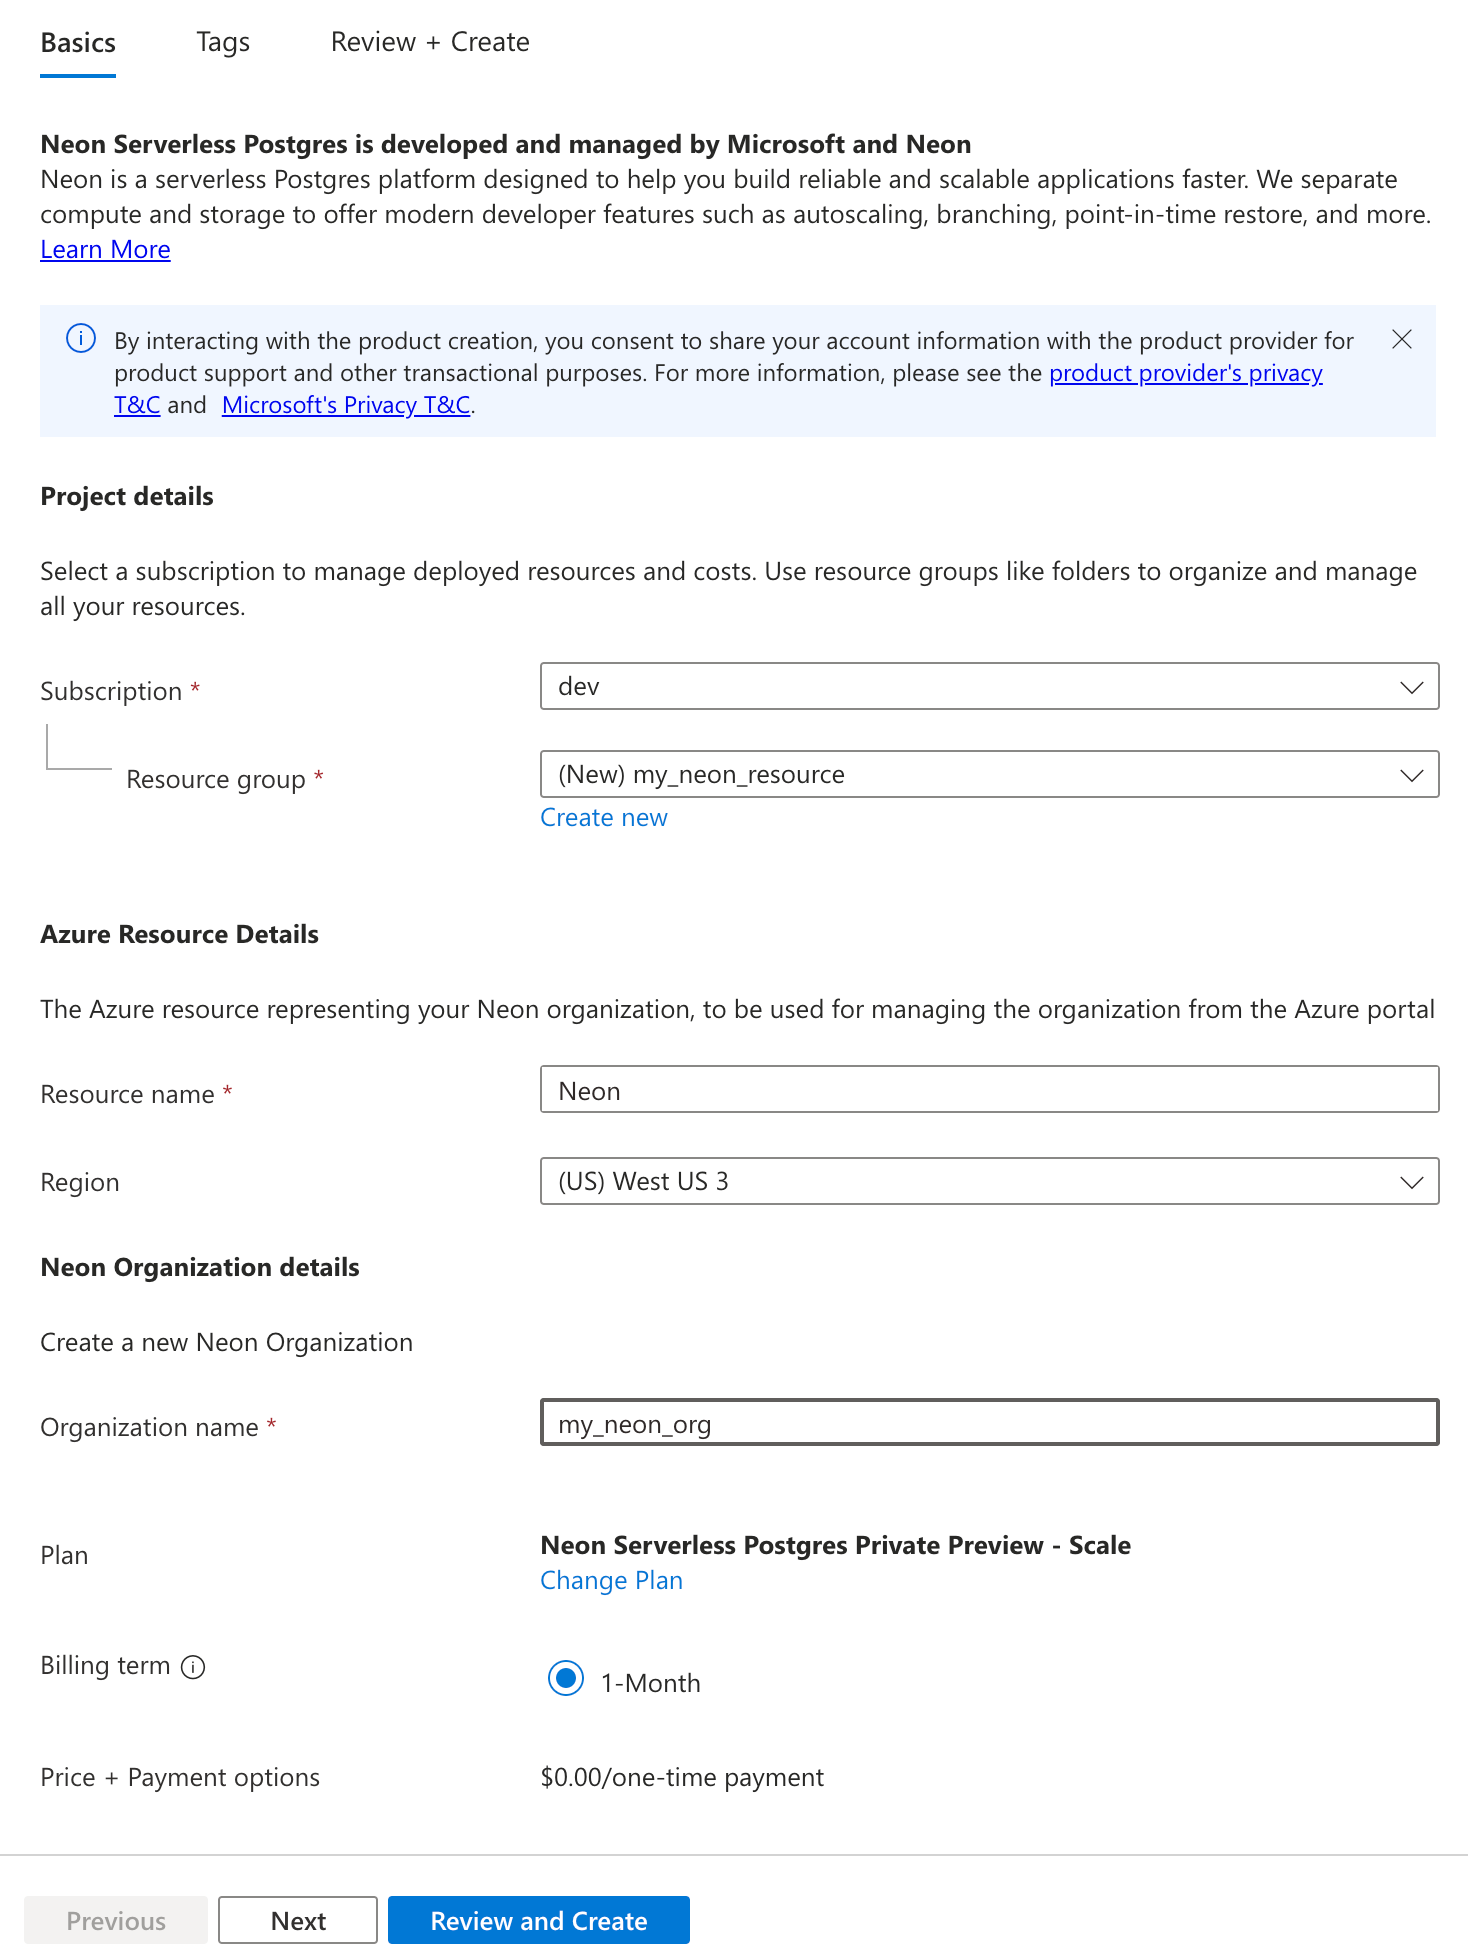
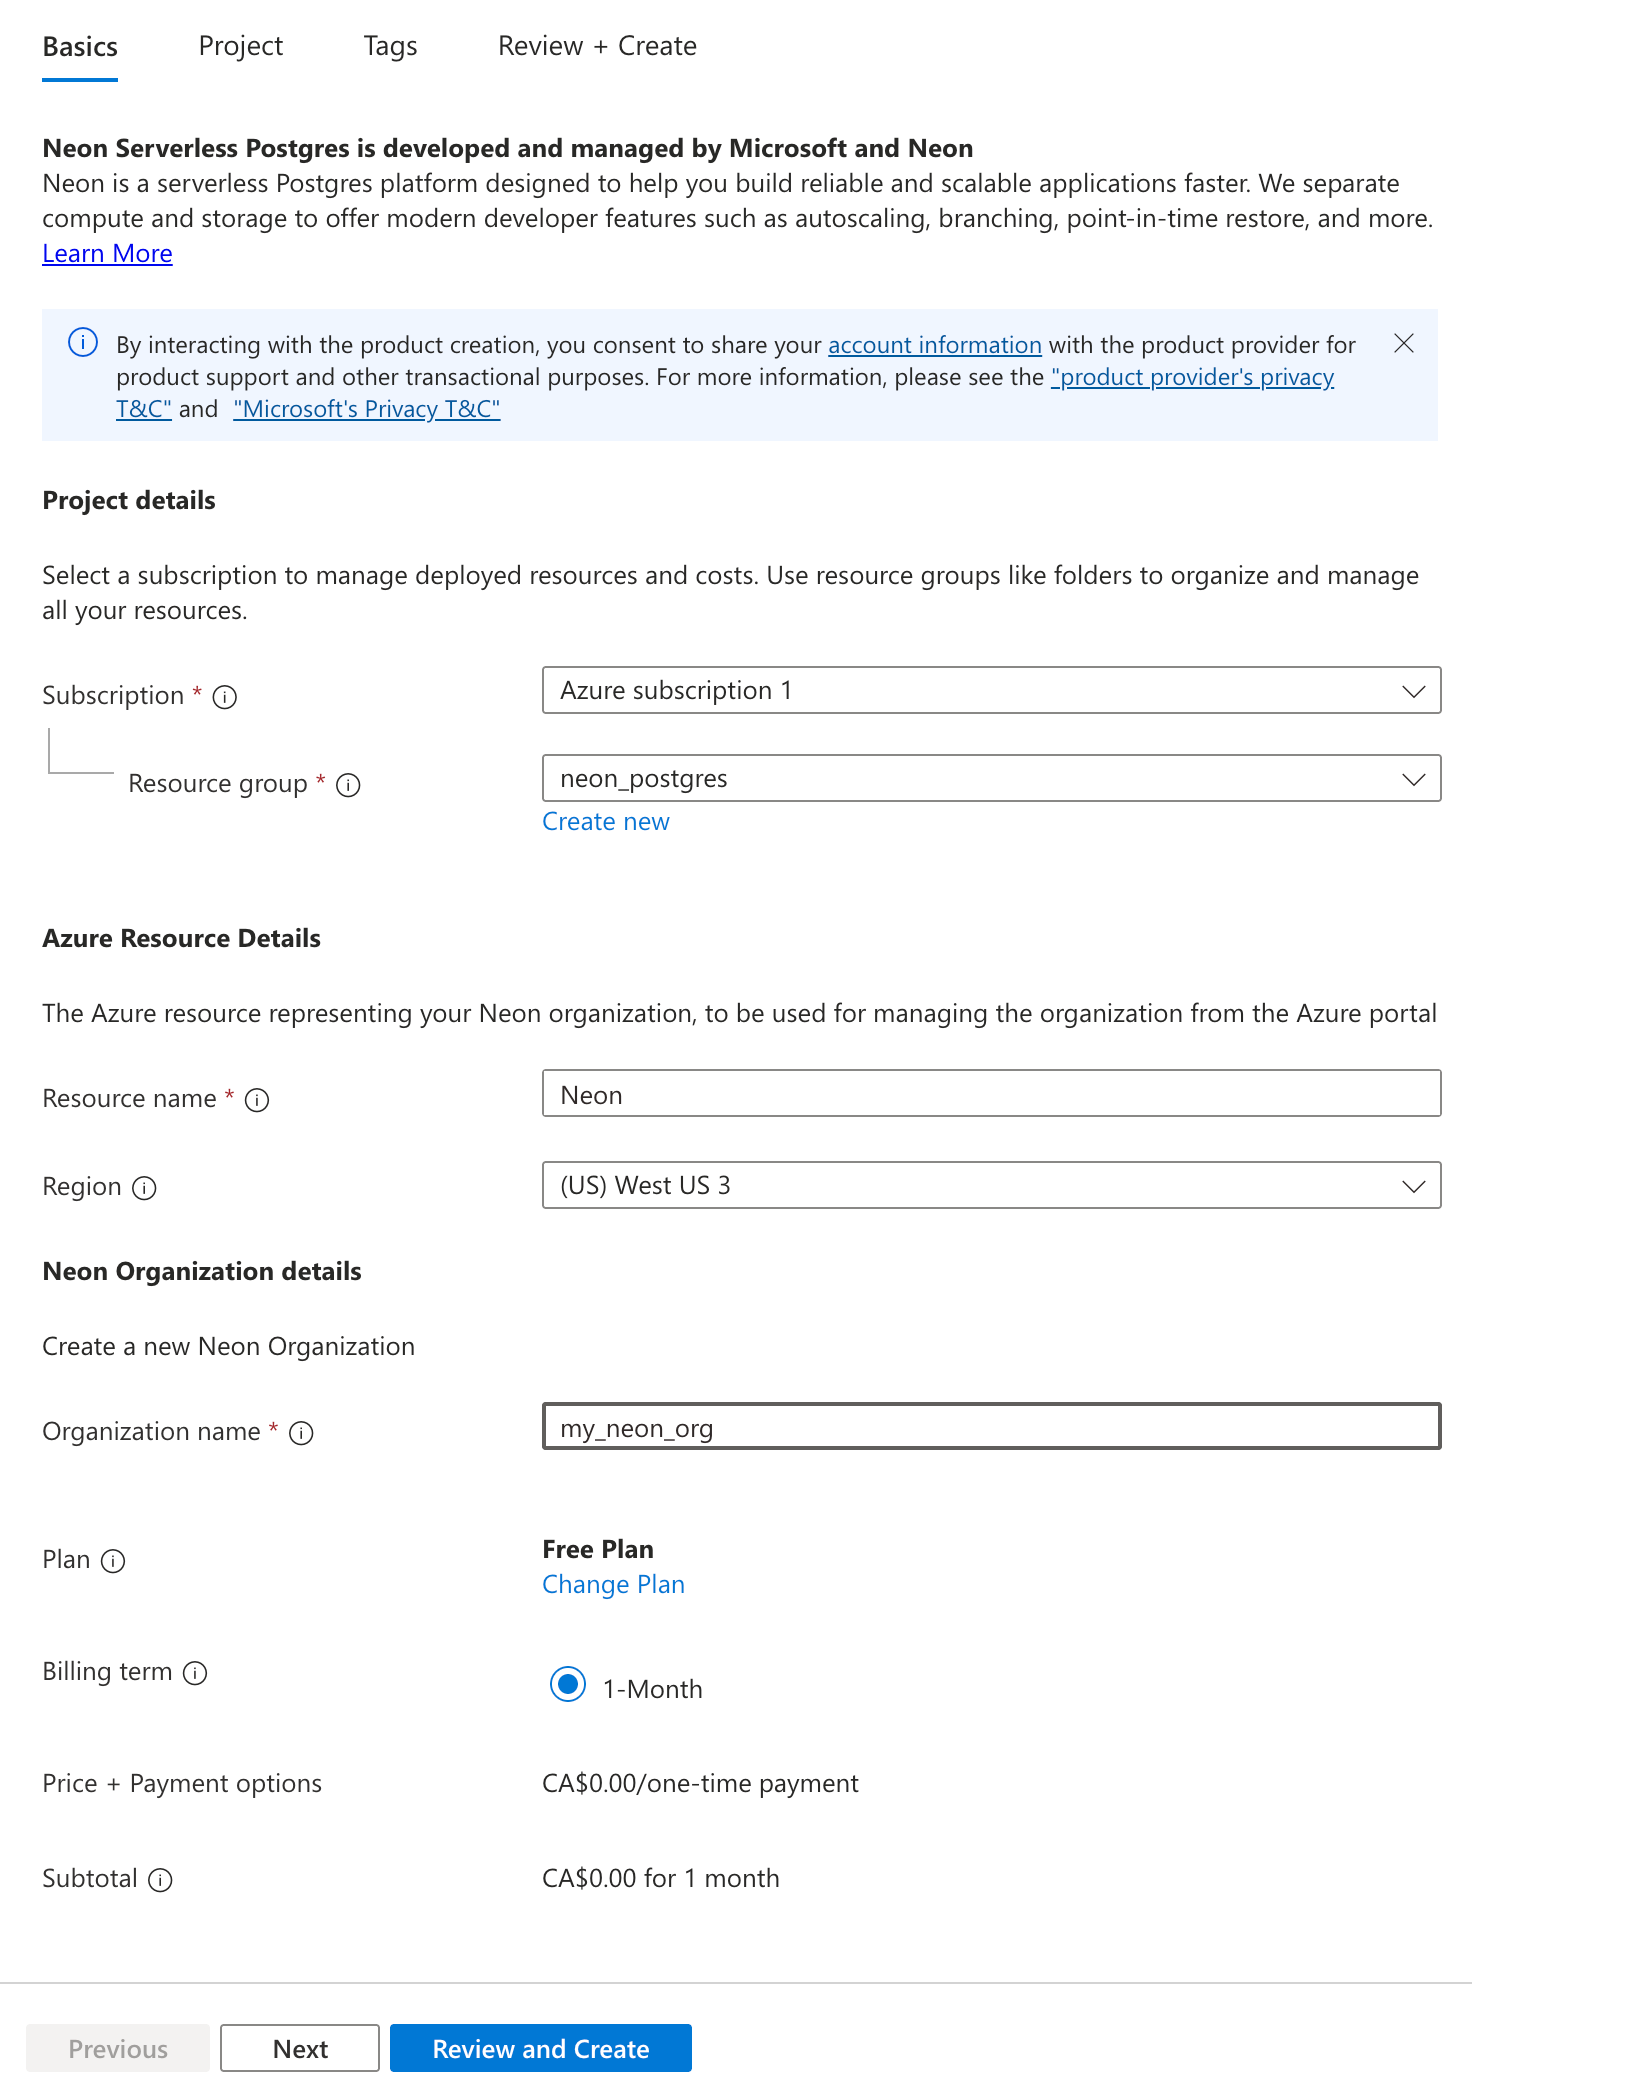
docs: update azure docs for project creation

diff --git a/content/docs/introduction/billing-azure-marketplace.md b/content/docs/introduction/billing-azure-marketplace.md
@@ -57,26 +57,42 @@ updatedOn: '2025-03-20T21:23:07.251Z'
 
    ![Create a resource group](/docs/introduction/azure_create_resource_group.png)
 
-1. Review your **Price + Payment options** and **Subtotal**, select **Next** to optionally specify tags for your resource. For more about tags, see [Use tags to organize your Azure resources](https://learn.microsoft.com/en-us/azure/azure-resource-manager/management/tag-resources).
-1. Select **Review + Create** to navigate to the final step for resource creation. Review your selections, the [Azure Marketplace Terms](https://learn.microsoft.com/en-us/legal/marketplace/marketplace-terms), and the Neon [Terms of Use](https://neon.tech/terms-of-service) and [Privacy Policy](https://neon.tech/privacy-policy).
+1. Review your **Price + Payment options** and **Subtotal**, select **Next**.
+1. On the **Project** page, enter a name for your Neon project, select a Postgres version, specify a name for your database, and choose a region. We recommend selecting the region closest to your application. 
+
+   ![Create project in Azure](/docs/introduction/azure_create_project.png)
+
+1. Click **Next**.
+1. Optionally specify tags for your resource, then click **Next**. For more about tags, see [Use tags to organize your Azure resources](https://learn.microsoft.com/en-us/azure/azure-resource-manager/management/tag-resources).
+1. On the **Review + Create** page, review your selections, the [Azure Marketplace Terms](https://learn.microsoft.com/en-us/legal/marketplace/marketplace-terms), and the Neon [Terms of Use](https://neon.tech/terms-of-service) and [Privacy Policy](https://neon.tech/privacy-policy).
 1. Select **Create** to initiate the resource deployment, which may take a few moments.
 1. When your deployment is complete, click the **Go to resource** button under **Next steps** to view your new Neon resource.
 
    ![Go to resource button](/docs/introduction/azure_go_to_resource.png)
 
-1. Select the **Go to Neon link** under **Getting started** to open the Neon Console.
+1. Select the **Go to Neon** link under **Getting started** to open the Neon Console.
 
    ![Azure get started](/docs/introduction/azure_get_started.png)
 
-   You will be directed to the **Create project page** in the Neon Console, in your newly created Neon Organization.
+   You will be directed to the the Neon Console where you can start working with your newly created Neon organization and project.
 
    <Admonition type="note">
    A Neon Organization created via the Azure portal supports creating Neon projects in Azure regions only.
    </Admonition>
 
-   ![Create project dialog for Azure](/docs/introduction/azure_create_project.png)
+   ![Project page in Neon](/docs/introduction/azure_neon_project_page.png)
 
-1. From here, you can follow the [Neon Getting Started](/docs/get-started-with-neon/signing-up) to create your first Neon project and familiarize yourself with the Neon platform.
+1. From here, you can follow the [Neon Getting Started](/docs/get-started-with-neon/signing-up) to start working with your Neon project and familiarizing yourself with the Neon platform.
+
+## Creating additional Neon projects
+
+All Neon plans, including the Free plan, support multiple Neon projects. You can add Neon projects to an existing Neon resource from the **Projects** page in Azure or from the Neon Console.
+
+In Azure, navigate to the **Projects** page and select **Create Project**.
+
+![Project page in Neon](/docs/introduction/azure_project_form.png)
+
+See [Create a project](/docs/manage/projects#create-a-project) for how to create a project from the Neon Console.
 
 ## Neon pricing plans and overages
 
